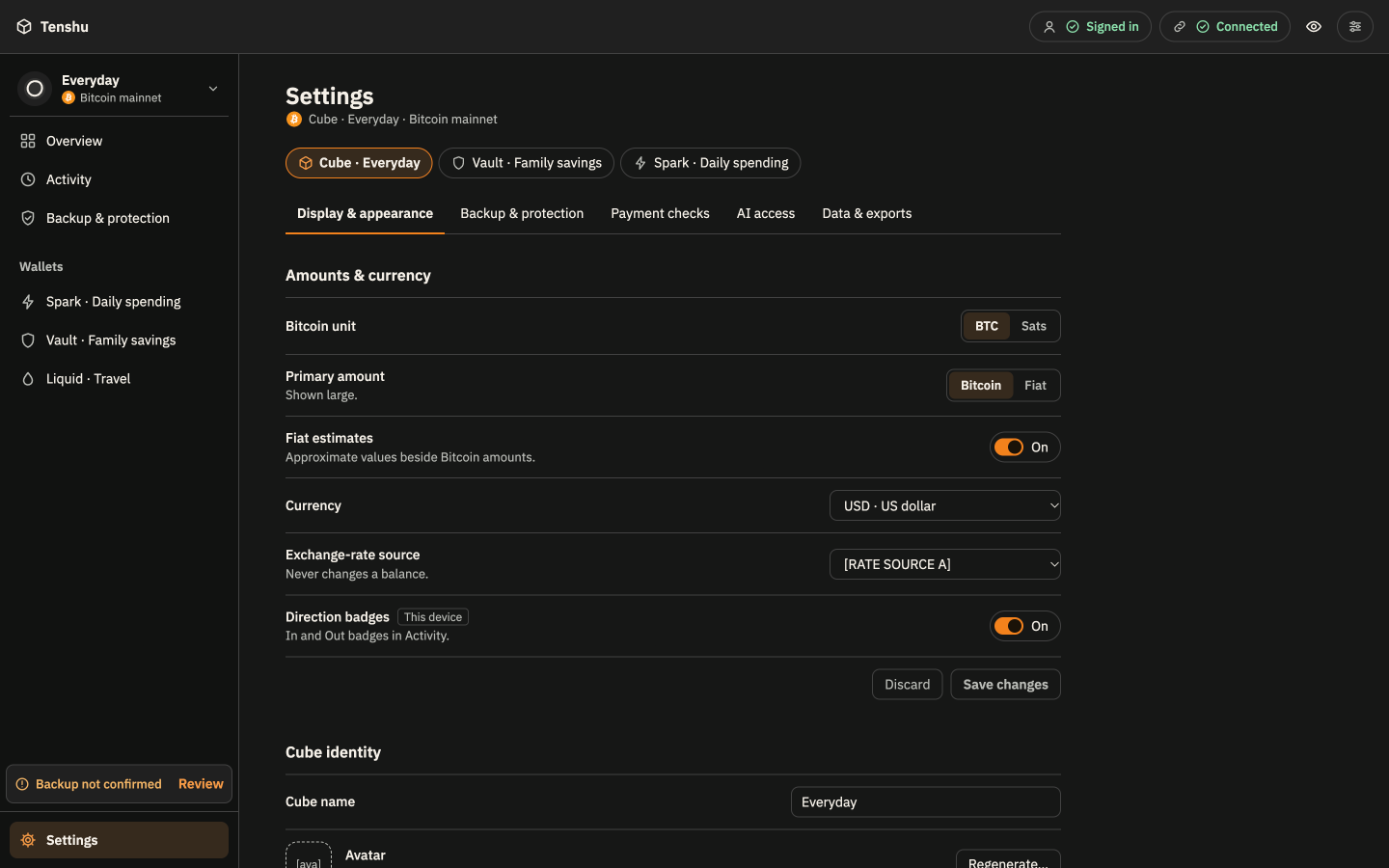
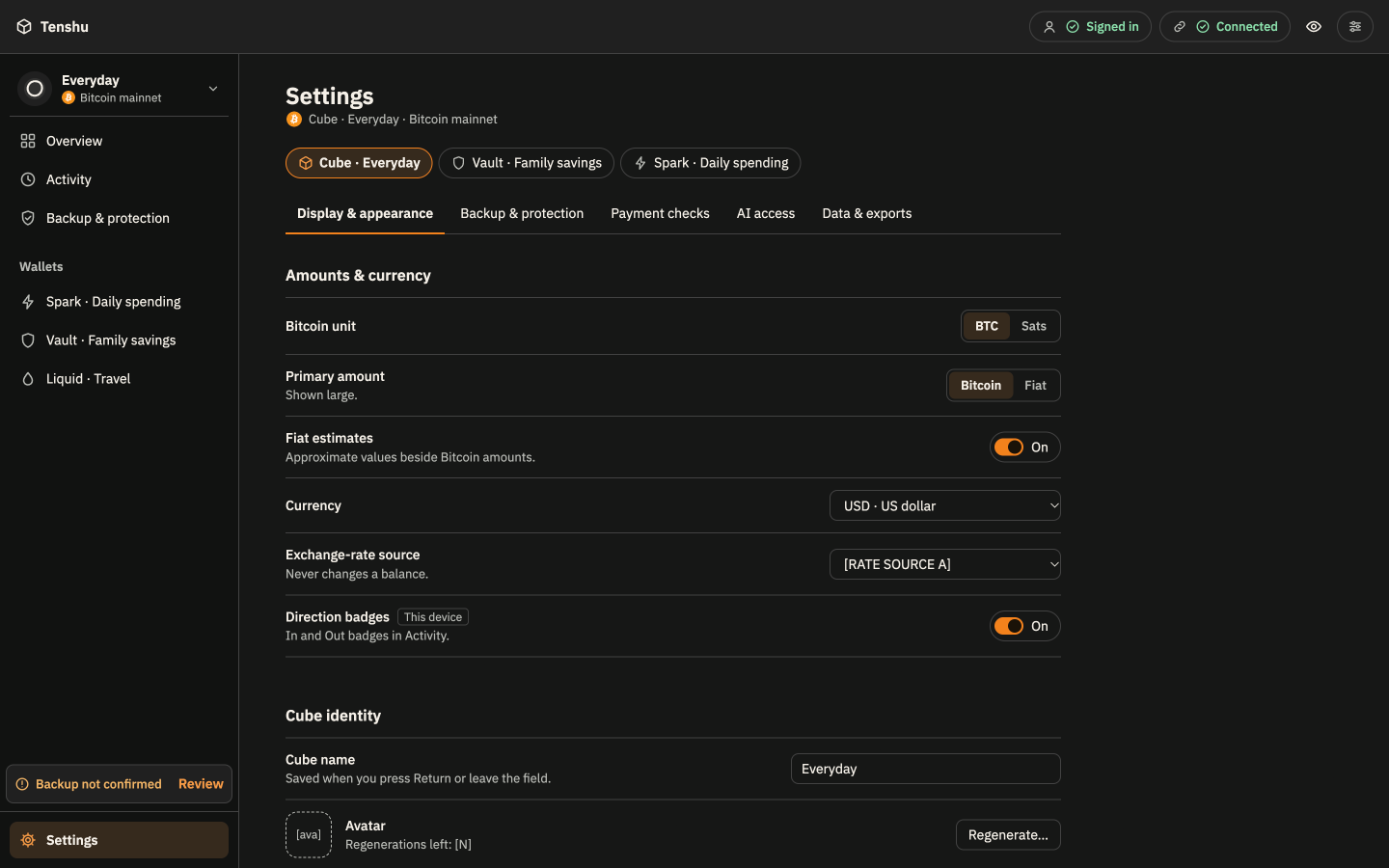
docs: settings apply on change; Codex/ChatGPT and Grok as AI clients
Drop the Save/Discard bars from Settings, matching the app, where each
display setting persists from its own change handler; text fields save on
Return or blur. Add Codex · ChatGPT as a paired client and Codex and Grok
as pairing hosts, and fix the pairing host radios always showing the last
option. Screens and sources at canvas v120.

diff --git a/design-review/canvas/P-Settings.dc.html b/design-review/canvas/P-Settings.dc.html
@@ -132,8 +132,7 @@ select.in{width:240px}
 .lead{display:grid;grid-template-columns:minmax(0,1fr) auto;gap:24px;align-items:center;margin-top:24px;padding:18px 0;border-top:2px solid var(--warn);border-bottom:1px solid var(--line)}
 .lead.unk{border-top-color:var(--line)}
 .lead h2{font-size:20px;font-weight:600;margin-top:6px}
-.fbar{display:flex;align-items:center;justify-content:flex-end;gap:8px;padding:12px 0}
-.fbar .msg{margin-right:auto;font-size:13px;color:var(--muted)}
+.saved{min-height:18px;padding:8px 0 0;font-size:13px;color:var(--muted);text-align:right}
 .dsc{display:flex;align-items:center;gap:8px;width:100%;margin-top:32px;padding:12px 0;border:0;border-top:1px solid var(--line);border-bottom:1px solid var(--line);background:none;cursor:pointer;text-align:left;font-weight:600;font-size:15px;color:var(--ink)}
 .dsc:hover{background:var(--hover)}
 .dsc .ic{transition:transform .15s;color:var(--muted)}
@@ -301,7 +300,7 @@ a.brand{color:inherit;text-decoration:none;border-radius:6px}a.brand:hover{color
           <section class="grp" aria-labelledby="h-amt">
             <h3 id="h-amt">Amounts &amp; currency</h3>
             <sc-if value="{{ form.error }}" hint-placeholder-val="{{ false }}">
-              <div class="note bad" role="alert"><div><p><b>Couldn't save Currency and Exchange-rate source.</b></p><p>Your edits are kept below.</p></div><button type="button" class="btn" onClick="{{ form.save }}">Try again</button></div>
+              <div class="note bad" role="alert"><div><p><b>Couldn't save Currency and Exchange-rate source.</b></p><p>The rest of this page saved. Your choice is kept below.</p></div><button type="button" class="btn" onClick="{{ form.save }}">Try again</button></div>
             </sc-if>
             <div class="rows">
               <div class="row"><div class="rl"><p class="lb" id="u-l">Bitcoin unit</p></div><div class="rc"><div class="seg" role="group" aria-labelledby="u-l"><button type="button" aria-pressed="{{ form.btc }}" onClick="{{ form.setBtc }}">BTC</button><button type="button" aria-pressed="{{ form.sats }}" onClick="{{ form.setSats }}">Sats</button></div></div></div>
@@ -311,12 +310,12 @@ a.brand{color:inherit;text-decoration:none;border-radius:6px}a.brand:hover{color
               <div class="row"><div class="rl"><label class="lb" for="src">Exchange-rate source</label><p class="ds">Never changes a balance.</p></div><div class="rc"><select id="src" class="{{ form.errCls }}" value="{{ form.source }}" onChange="{{ form.setSource }}"><option value="A">[RATE SOURCE A]</option><option value="B">[RATE SOURCE B]</option></select></div></div>
               <div class="row"><div class="rl"><p class="lbl-line"><span class="lb" id="b-l">Direction badges</span><span class="sc">This device</span></p><p class="ds">In and Out badges in Activity.</p></div><div class="rc"><button type="button" class="tog" aria-labelledby="b-l" aria-pressed="{{ form.badges }}" onClick="{{ form.togBadges }}"><span class="kn"></span>{{ form.badgesText }}</button></div></div>
             </div>
-            <div class="fbar"><span class="msg" role="status">{{ form.msg }}</span><button type="button" class="btn" disabled="{{ form.clean }}" onClick="{{ form.discard }}">Discard</button><button type="button" class="btn pri" disabled="{{ form.clean }}" onClick="{{ form.save }}">{{ form.saveLabel }}</button></div>
+            <p class="saved" role="status">{{ form.msg }}</p>
           </section>
           <section class="grp" aria-labelledby="h-id">
             <h3 id="h-id">Cube identity</h3>
             <div class="rows">
-              <div class="row"><div class="rl"><label class="lb" for="cname">Cube name</label></div><div class="rc"><input id="cname" class="in" value="{{ form.name }}" onChange="{{ form.setName }}"></div></div>
+              <div class="row"><div class="rl"><label class="lb" for="cname">Cube name</label><p class="ds">Saved when you press Return or leave the field.</p></div><div class="rc"><input id="cname" class="in" value="{{ form.name }}" onChange="{{ form.setName }}"></div></div>
               <div class="row"><div class="rl" style="display:flex;gap:14px;align-items:center"><div class="ava" aria-hidden="true">[ava]</div><div><p class="lb">Avatar</p>
                 <sc-if value="{{ avatar.ready }}" hint-placeholder-val="{{ true }}"><p class="ds">Regenerations left: [N]</p></sc-if>
                 <sc-if value="{{ avatar.loading }}" hint-placeholder-val="{{ false }}"><p class="ds">Loading…</p></sc-if>
@@ -382,6 +381,7 @@ a.brand{color:inherit;text-decoration:none;border-radius:6px}a.brand:hover{color
             <p class="intro">Let the AI you already use operate this Cube through Tenshu's local connection. Tenshu stays the wallet engine; seeds, keys, PINs, passwords and passkeys never enter the conversation.</p>
             <div class="rows">
               <div class="row"><div class="rl"><p class="lb">Claude Desktop</p><p class="ds">Vault · Family savings, Spark · Daily spending · Read wallet information, Manage wallet setup · Available</p></div><div class="rc"><a class="btn" href="P-AI-Access.dc.html">Manage</a></div></div>
+              <div class="row"><div class="rl"><p class="lb">Codex · ChatGPT</p><p class="ds">Spark · Daily spending · Read wallet information, Prepare unsigned transactions · Available</p></div><div class="rc"><a class="btn" href="P-AI-Access.dc.html">Manage</a></div></div>
               <div class="row"><div class="rl"><p class="lb">Maple AI Desktop</p><p class="ds">Vault · Family savings · Read wallet information · Paused, Cube was locked</p></div><div class="rc"><a class="btn" href="P-AI-Access.dc.html">Manage</a></div></div>
               <div class="row"><div class="rl"><p class="lb">Pair a client</p><p class="ds">Pair once; access lasts until you revoke it. Each client gets only the Cubes, wallets and permissions you choose.</p></div><div class="rc"><a class="btn pri" href="P-AI-Access.dc.html">Open AI access</a></div></div>
             </div>
@@ -443,12 +443,13 @@ a.brand{color:inherit;text-decoration:none;border-radius:6px}a.brand:hover{color
           </section>
           <section class="grp" aria-labelledby="h-sg">
             <h3 id="h-sg">Signers</h3>
+            <p class="intro">Names save when you press Return or leave the field.</p>
             <div class="rows">
               <sc-for list="{{ signers }}" as="g" hint-placeholder-count="3">
                 <div class="row"><div class="rl"><label class="lb" for="{{ g.id }}">{{ g.kind }}</label><p class="ds"><span class="mono">{{ g.fp }}</span> · {{ g.owner }}</p></div><div class="rc"><input id="{{ g.id }}" class="in" aria-label="Alias for {{ g.kind }}" value="{{ g.alias }}" onChange="{{ g.set }}"></div></div>
               </sc-for>
             </div>
-            <div class="fbar"><span class="msg" role="status">{{ aliasMsg }}</span><button type="button" class="btn" disabled="{{ aliasClean }}" onClick="{{ aliasDiscard }}">Discard</button><button type="button" class="btn pri" disabled="{{ aliasClean }}" onClick="{{ aliasSave }}">Save names</button></div>
+            <p class="saved" role="status">{{ aliasMsg }}</p>
           </section>
           <section class="grp" aria-labelledby="h-ph">
             <h3 id="h-ph">Phone signing and members</h3>
@@ -750,7 +751,8 @@ class Component extends DCLogic {
     const initial=saveFail?Object.assign({},base,{currency:'EUR',source:'B'}):base;
     const f=(S.form&&S.form.for===rs)?S.form.v:initial;
     const dirty=JSON.stringify(f)!==JSON.stringify(base);
-    const setF=(patch)=>self.setState({form:{for:rs,v:Object.assign({},f,patch)},saved:false});
+    // settings apply as they change (as in the app); the saveFailure lever shows a failed write
+    const setF=(patch)=>{const v=Object.assign({},f,patch);self.setState(saveFail?{form:{for:rs,v:v},saved:false}:{form:{for:rs,v:v},base:{for:rs,v:v},saved:true});};
     const pr=(b)=>b?'true':'false';
     const ev=(e)=>(e&&e.target)?e.target.value:'';
     const form={
@@ -761,9 +763,7 @@ class Component extends DCLogic {
       togFiat:()=>setF({fiat:!f.fiat}),togBadges:()=>setF({badges:!f.badges}),
       setCurrency:(e)=>setF({currency:ev(e)}),setSource:(e)=>setF({source:ev(e)}),setName:(e)=>setF({name:ev(e)}),
       error:saveFail&&dirty,errCls:(saveFail&&dirty)?'in err':'in',clean:!dirty,
-      saveLabel:saveFail&&dirty?'Try again':'Save changes',
-      msg:saveFail&&dirty?'Not saved':(dirty?'Unsaved changes':(S.saved?'Saved':'')),
-      discard:()=>self.setState({form:{for:rs,v:base}}),
+      msg:saveFail&&dirty?'':(S.saved?'Saved':''),
       save:()=>{if(saveFail)return;self.setState({base:{for:rs,v:f},form:{for:rs,v:f},saved:true});}
     };
     const avatar={ready:!signedOut&&!disc,loading:false,error:signedOut||disc,
@@ -805,9 +805,8 @@ class Component extends DCLogic {
     ];
     const savedA=(S.aliasSaved&&S.aliasSaved.for===rs)?S.aliasSaved.v:defSigners.map(s=>s.alias);
     const curA=(S.aliases&&S.aliases.for===rs)?S.aliases.v:savedA;
-    const aliasDirty=JSON.stringify(curA)!==JSON.stringify(savedA);
     const signers=defSigners.map((s,i)=>Object.assign({},s,{id:'sg'+i,alias:curA[i],
-      set:(e)=>{const a=curA.slice();a[i]=ev(e);self.setState({aliases:{for:rs,v:a}});}}));
+      set:(e)=>{const a=curA.slice();a[i]=ev(e);self.setState({aliases:{for:rs,v:a},aliasSaved:{for:rs,v:a}});}}));
 
     // pair with Keychain
     const pairProp=P.pairStep||'idle';
@@ -886,8 +885,7 @@ class Component extends DCLogic {
       sec:sec,form:form,avatar:avatar,bk:bk,alerts:alerts,noVault:noVault,offline:offline,imported:imported,
       chk:chk,strictP:pr(S.strict),strictText:S.strict?'On':'Off',togStrict:()=>self.setState({strict:!S.strict}),
       dataVaultText:noVault?'No Vault in this Cube.':'Exported per Vault.',
-      signers:signers,aliasClean:!aliasDirty,aliasMsg:aliasDirty?'Unsaved name changes':'',
-      aliasDiscard:()=>self.setState({aliases:{for:rs,v:savedA}}),aliasSave:()=>self.setState({aliasSaved:{for:rs,v:curA}}),
+      signers:signers,aliasMsg:(S.aliasSaved&&S.aliasSaved.for===rs)?'Saved':'',
       pair:pair,pairKeys:pairKeys,phones:phones,noop:()=>{},
       acctLine:acctLine,health:health,ln:ln,usdb:hide?'••••••':'25.00 USDB',
       open:{wx:tg('wx'),nx:tg('nx'),bx:tg('bx')},nd:nd

diff --git a/design-review/canvas/P-AI-Access.dc.html b/design-review/canvas/P-AI-Access.dc.html
@@ -465,19 +465,21 @@ class Component extends DCLogic {
     const picker=(name,opts)=>opts.map(([v,l])=>({label:l,on:lev(name)===v?'true':'false',pick:()=>self.setState({[name]:{for:P[name],v:v}})}));
 
     const mode=lev('state');
-    const picks=picker('state',[['two','Two clients'],['one','One client'],['none','No clients'],['pairing','Pairing'],['editing','Edit permissions'],['revoking','Revoke']]);
+    const picks=picker('state',[['two','Several clients'],['one','One client'],['none','No clients'],['pairing','Pairing'],['editing','Edit permissions'],['revoking','Revoke']]);
     const S=this.state, m=S.mode&&S.mode.for===mode?S.mode.v:mode;
     const setMode=(v)=>self.setState({mode:{for:mode,v:v}});
     const sc=Object.assign({vault:true,spark:false,liquid:false,future:false},S.sc||{});
     const pm=Object.assign({read:true,setup:true,prep:false},S.pm||{});
     const tog=(k,obj,key)=>()=>{const n=Object.assign({},obj);n[k]=!obj[k];self.setState({[key]:n});};
     const step=S.pairStep||1;
-    const hosts=[['claude','Claude Desktop','Pairs with a one-time code'],['maple','Maple AI Desktop','Pairs with a one-time code'],['other','Other MCP host','Manual configuration, under Advanced']].map(([id,name,line])=>({name,line,on:(S.host||'claude')===id?'true':'false',pick:()=>self.setState({host:id})}));
-    const hostName=(hosts.find((h)=>h.on==='true')||hosts[0]).name;
+    const hosts=[['claude','Claude Desktop','Pairs with a one-time code'],['codex','Codex · ChatGPT','Pairs with a one-time code'],['maple','Maple AI Desktop','Pairs with a one-time code'],['grok','Grok','Pairs with a one-time code'],['other','Other MCP host','Manual configuration, under Advanced']].map(([id,name,line])=>({name,line,on:(S.host||'claude')===id,pick:()=>self.setState({host:id})}));
+    const hostName=(hosts.find((h)=>h.on)||hosts[0]).name;
     const perm=(label,on,stat)=>({label,cls:on?'':'off',stat:stat,statCls:stat==='Today'?'today':'plan'});
     const C=[
       {name:'Claude Desktop',scope:'Everyday · Vault · Family savings, Spark · Daily spending',avail:'Available',avCls:'ok',avOk:true,avWarn:false,last:'Last activity · read balances · 2 minutes ago · 14 reads today',
        busy:true,perms:[perm('Read wallet information',true,'Today'),perm('Manage wallet setup',true,'Planned'),perm('Prepare unsigned transactions',false,'Planned')]},
+      {name:'Codex · ChatGPT',scope:'Everyday · Spark · Daily spending',avail:'Available',avCls:'ok',avOk:true,avWarn:false,last:'Last activity · read recent payments · Oct 22, 11:40',
+       busy:false,perms:[perm('Read wallet information',true,'Today'),perm('Manage wallet setup',false,'Planned'),perm('Prepare unsigned transactions',true,'Planned')]},
       {name:'Maple AI Desktop',scope:'Everyday · Vault · Family savings',avail:'Paused · Cube was locked',avCls:'warn',avOk:false,avWarn:true,last:'Last activity · read policy summary · Oct 19, 17:40',
        busy:false,perms:[perm('Read wallet information',true,'Today'),perm('Manage wallet setup',false,'Planned'),perm('Prepare unsigned transactions',false,'Planned')]}
     ].map((c)=>Object.assign(c,{edit:()=>self.setState({mode:{for:mode,v:'editing'},who:c.name}),revoke:()=>self.setState({mode:{for:mode,v:'revoking'},who:c.name})}));

diff --git a/design-review/tenshu-launcher-and-settings-review.md b/design-review/tenshu-launcher-and-settings-review.md
@@ -769,3 +769,15 @@ While exporting, two regressions of mine surfaced. (1) Removing the cross-tab li
 **Robert:** the eye for showing and hiding balances is missing from the top bar on some screens.
 
 **Applied:** the Overview, the one Cube screen without it, now has the top-bar eye; it hides every balance on the page, and the Total and Wallets section eyes remain as finer controls. Every Cube screen's top bar now reads: account chip, Cube service chip, eye, App preferences. For Codex: implement it as one Cube-wide hide-balances flag shared by every screen; the prototype keeps it per board.
+
+## Settings apply as they change; more AI clients (2026-10-24, canvas v118–v120)
+
+**Robert:** the Settings design has a "Save changes" button; confirm whether the app needs one, and if not remove it from every settings design.
+
+**Checked in the app:** it doesn't. `coincube-gui/src/app/state/settings/general.rs` persists each display setting from its own change handler (`update_unit_setting`, `update_price_setting`, the direction-badges toggle), with no save step. The only explicit commits are text fields: the Vault wallet and key aliases (`app/view/vault/settings/mod.rs`, "Update") and local-signing fallback rows ("Save").
+
+**Applied:** Settings › Display & appearance and Vault › Wallet & signers no longer have Save/Discard bars. Toggles, segmented controls and selects apply at once, and a quiet "Saved" confirms it. Text fields (Cube name, Vault name, signer names) save when you press Return or leave the field, and say so. A failed write still shows the alert with Try again (the `saveFailure` lever). Buttons that finish a flow or dialog are unchanged (Save contact, Apply a key, save a coin label or PSBT, Save permissions).
+
+**Robert:** add Codex/ChatGPT, and support Grok.
+
+**Applied:** AI access and Settings › AI access list a paired "Codex · ChatGPT" client (Spark only, read plus prepare unsigned transactions), and the pairing step offers Claude Desktop, Codex · ChatGPT, Maple AI Desktop, Grok and Other MCP host. The pairing step's radio buttons now select correctly (they always showed the last option).

diff --git a/design-review/HANDOFF.md b/design-review/HANDOFF.md
@@ -6,7 +6,7 @@ Read this file first, then the review doc, then the inventory.
 
 | What | Where |
 | --- | --- |
-| Live prototype (clickable, needs a signed-in claude.ai browser) | https://claude.ai/artifact/4DkSWQshpyXVu2kVrbneRz (canvas v117) |
+| Live prototype (clickable, needs a signed-in claude.ai browser) | https://claude.ai/artifact/4DkSWQshpyXVu2kVrbneRz (canvas v120) |
 | Exported screenshots of every screen, dark and light (open without a browser session) | `screens/dark/`, `screens/light/`, index in `screens/README.md` |
 | Artboard sources (35 linked screens plus their light twins, plain HTML + CSS + a small script each) | `canvas/*.dc.html`, index in `canvas/canvas.json` |
 | Earlier exploration boards the prototype was distilled from (superseded) | `archive/explorations/` |

diff --git a/design-review/screens/README.md b/design-review/screens/README.md
@@ -1,6 +1,6 @@
 # Exported screens
 
-Static PNG exports of every board in the Tenshu prototype (canvas v117,
+Static PNG exports of every board in the Tenshu prototype (canvas v120,
 2026-10-24), so the design can be read without a claude.ai session. Pixels only:
 exact copy, spacing, tokens and state logic are in `../canvas/<source>`.
 
